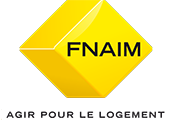
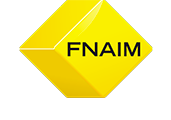
DBNV + ajout GES

diff --git a/include/footer.php b/include/footer.php
@@ -1,26 +1,28 @@
 
 	<div class="row fullwidth footer">
 		<div class="row">
-            <div class="large-4 medium-2 small-6 columns text-center" >
-                <a href="https://www.fnaim.fr/" target="_blank"><img src="/img/fnaim.png"></a>
+            <div class="large-2 medium-2 small-6 columns text-left" >
+                <a href="#"><img src="/img/logoPro.png"></a>
             </div>
-
-            <div class="large-2 medium-2small-6 columns ">
+            <div class="large-1 medium-1 small-6 columns text-left" >
+               &nbsp;
+            </div>
+            <div class="large-2 medium-2 small-12 columns ">
                 <a href="/professionnels/nos-offres.php">Nos offres professionnels</a><br>
                 <a href="/professionnels/actualite.php">Actualité professionnels</a><br>
                 <a href="livre-d-or.php">Livre d’or</a><br>
                 <a href="/professionnels/contact.php">Contact professionnels</a><br>
             </div>
-            <div class="large-2 medium-2 small-6 columns ">
+            <div class="large-3 medium-3 small-12 columns text-right">
                 <a href="/particuliers/nos-offres.php">Nos offres particuliers</a><br>
                 <a href="/particuliers/actualite.php">Actualité Particuliers</a><br>
                 <a href="livre-d-or.php">Livre d’or</a><br>
                 <a href="/particuliers/contact.php">Contact particuliers</a><br>
             </div>
-            <div class="large-2 medium-2 small-6 columns text-right" >
-                <a href="#"><img src="/img/logoPro.png"></a>
+            <div class="large-2 medium-2 small-12 columns text-right" >
+                <a href="https://www.fnaim.fr/" target="_blank"><img src="/img/fnaim.png"></a>
             </div>
-			<div class="large-2 medium-2 small-6 columns links" >
+			<div class="large-2 medium-2 small-12 columns links" >
 				<a href="mentions-legales.php">Mentions légales</a>
 				<a href="conditions-generales-utilisation.php">Conditions générales d’utilisation</a><br/>
 				© 2023 - votreimmopro.com

diff --git a/admin/classes/Offre_part.php b/admin/classes/Offre_part.php
@@ -96,13 +96,14 @@ class Offre_part extends StorageManager {
 			$fichier_pdf = '';
 			
 			$sql = "INSERT INTO `offre_part`
-				(`titre`, `surface`, `description`, `prix`, `bilan_energie`, `nb_piece`, `a_la_une`, `online`)
+				(`titre`, `surface`, `description`, `prix`,  `bilan_energie`,`bilan_ges`,`nb_piece`, `a_la_une`, `online`)
 				VALUES (
 				'". addslashes( $value[ "titre" ] ) ."',
 				". intval( $value[ "surface" ] ) .",
 				'". addslashes( $value[ "description" ] ) ."',
 				". intval( $value[ "prix" ] ) .",
 				'". addslashes( $value[ "bilan_energie" ] ) ."',
+				'". addslashes( $value[ "bilan_ges" ] ) ."',
 				'". $nb_piece ." ',
 				'". $a_la_une ." ',
 				'". $online ." '
@@ -141,6 +142,7 @@ class Offre_part extends StorageManager {
 				`description` = '" . addslashes( $value[ "description" ] ) . "',
 				`prix` = " . intval( $value[ "prix" ] ) . ",
 				`bilan_energie` = '" . addslashes( $value[ "bilan_energie" ] ) . "',
+				`bilan_ges` = '" . addslashes( $value[ "bilan_ges" ] ) . "',
 				`a_la_une` = '" . $a_la_une ."'	 ,
 				`online` = '" . $online ."'	 
 				WHERE `num_offre` = " . $value[ "num_offre" ] . ";";

diff --git a/admin/offre/edition_part.php b/admin/offre/edition_part.php
@@ -38,6 +38,7 @@
 			$fichier_pdf = 	 $result[0][ "fichier_pdf" ];
 			$prix =			 $result[0][ "prix" ];
             $bilan_energie = $result[0][ "bilan_energie" ];
+            $bilan_ges = $result[0][ "bilan_ges" ];
 			$online = 		( $result[0][ "online" ] == 'oui' ) ? "checked" : '';
 			$a_la_une = 	( $result[0][ "a_la_une" ] == 'oui' ) ? "checked" : '';
 			
@@ -126,6 +127,10 @@
                         <div class="form-group" >
                             <label class="col-sm-2" for="bilan_energie">Bilan energétique :</label>
                             <input type="text" class="col-sm-4" name="bilan_energie" required  value="<?=$bilan_energie?>">
+                        </div>
+                        <div class="form-group" >
+                            <label class="col-sm-2" for="bilan_energie">Bilan ges :</label>
+                            <input type="text" class="col-sm-4" name="bilan_ges" required  value="<?=$bilan_ges?>">
                         </div>
 
 						<div class="form-group">

diff --git a/particuliers/offre.php b/particuliers/offre.php
@@ -33,6 +33,7 @@
 		$surface = $result[ 0 ][ "surface" ];
 		$description = nl2br( $result[ 0 ][ "description" ] );
         $bilan_energie = nl2br( $result[ 0 ][ "bilan_energie" ] );
+        $bilan_ges = nl2br( $result[ 0 ][ "bilan_ges" ] );
 		$prix = number_format( $result[ 0 ][ "prix" ], 0, '', ' ' );
 		$fichier_pdf = $result[ 0 ][ "fichier_pdf" ];
 		$num_type_bien = $result[ 0 ][ "num_type_bien" ];
@@ -133,6 +134,10 @@
                 <h4>Bilan Energétique</h4>
                 <p><?=$bilan_energie?></p>
                 <img src="img/bilanEnergie.png" alt="bilan">
+
+                <h4>Bilan émissions GES </h4>
+                <p><?=$bilan_ges?></p>
+                <img src="img/bilanGes.png" alt="bilan">
 			</div>
 		</div>
 		<!-- End Offre -->

diff --git a/particuliers/include/footer.php b/particuliers/include/footer.php
@@ -13,7 +13,7 @@
 	<div class="row fullwidth footer">
 		<div class="row">
             <div class="large-2 medium-2 small-2 columns text-center" >
-                <a href="https://www.fnaim.fr/" target="_blank"><img src="/img/fnaim.png"></a>
+                <a href="https://www.fnaim.fr/" target="_blank"><img src="/img/fnaim2.png"></a>
                 <a href="#"><img src="/img/logoPro.png"></a>
             </div>
 			<div class="large-6 medium-6 small-12 columns actualites">
